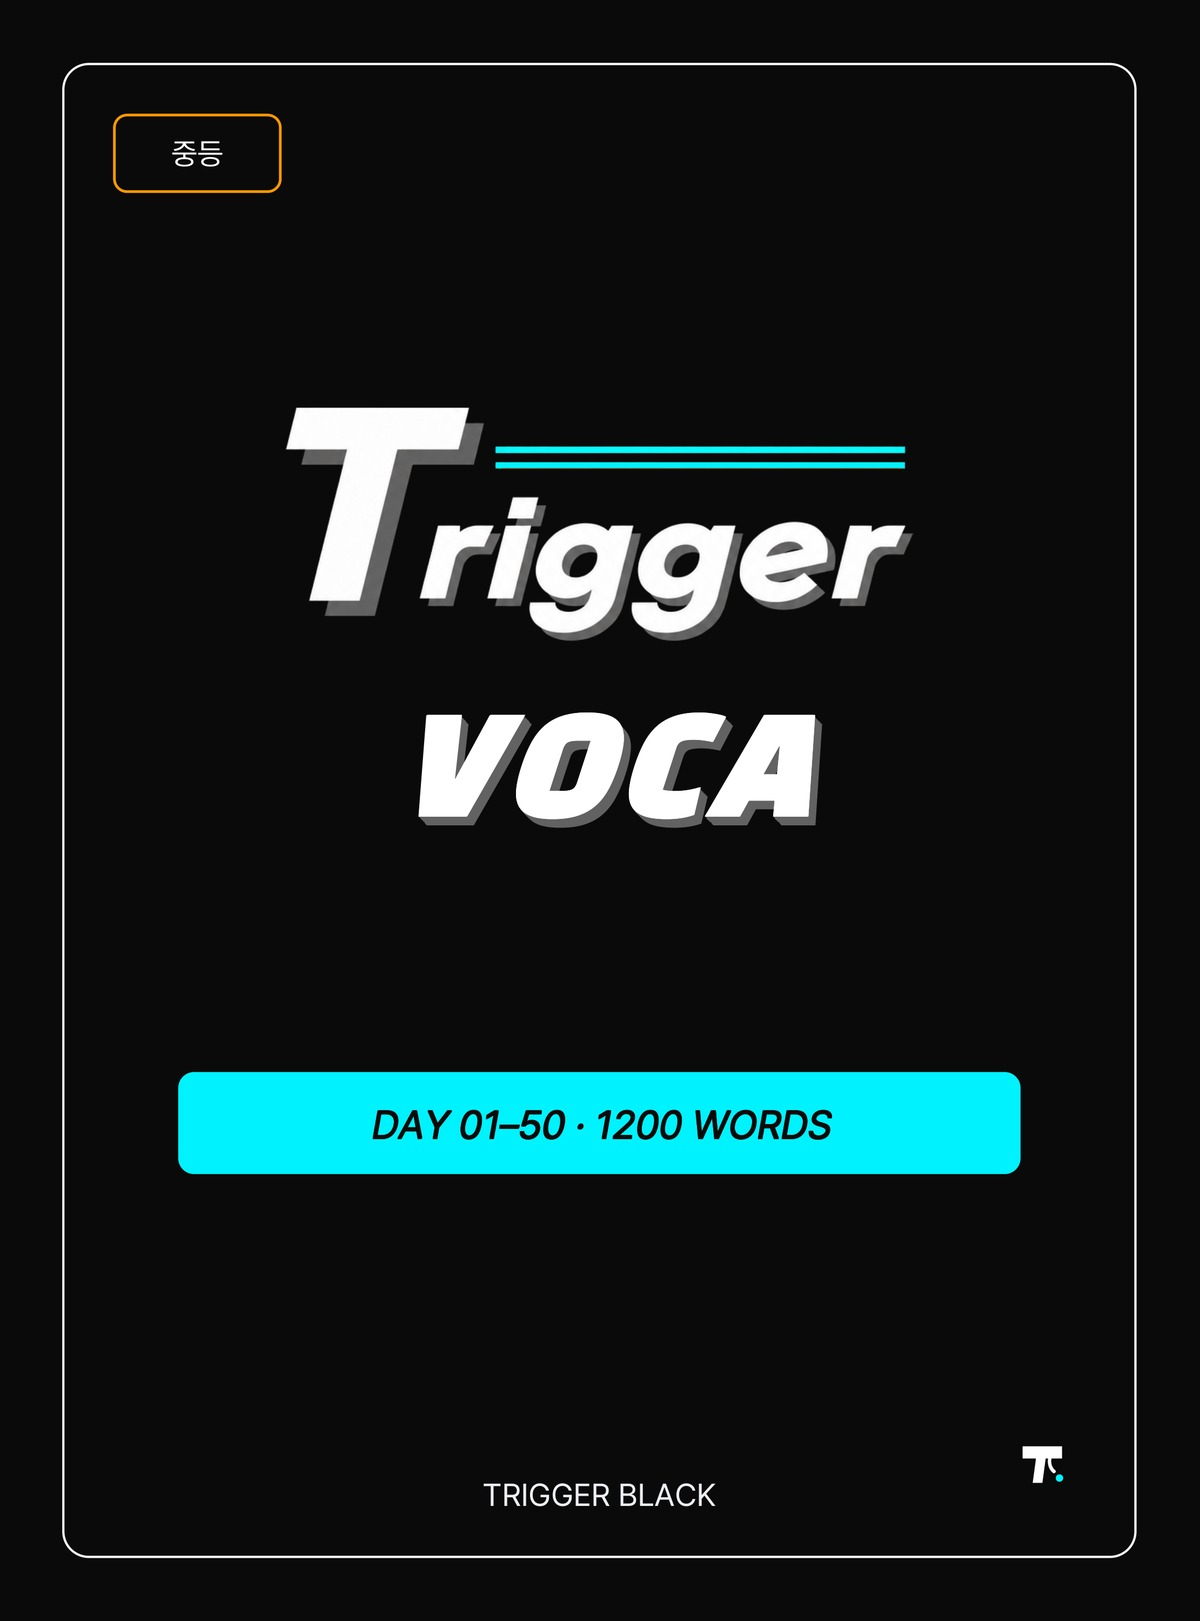
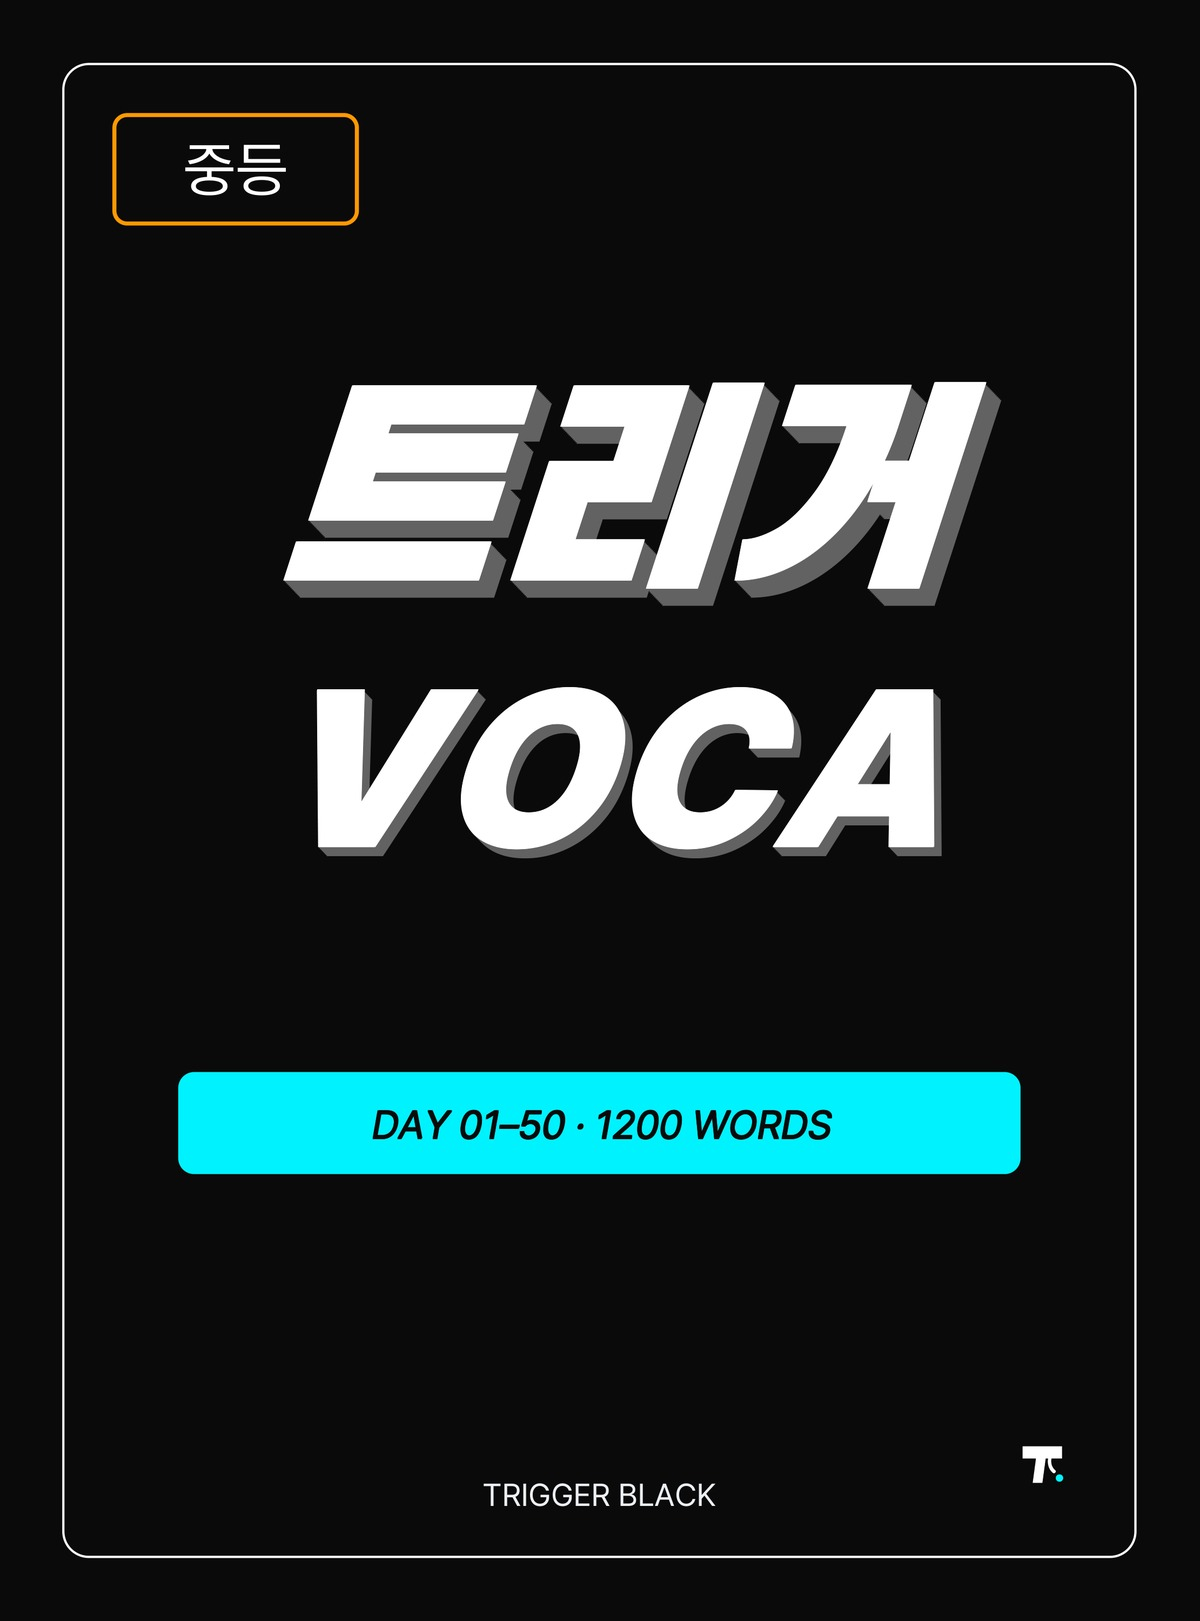
중등 표지를 고등과 같은 배지·제목 양식으로 맞춤

Changed region(s): [[0.2158, 0.2159, 0.8325, 0.5552], [0.0925, 0.0617, 0.3083, 0.1542]]

diff --git a/scripts/generate-voca-book-cover-bookk.py b/scripts/generate-voca-book-cover-bookk.py
@@ -259,12 +259,8 @@ def draw_front_panel(
     c.setLineWidth(1)
     c.roundRect(10 * mm, 10 * mm, w - 20 * mm, h - 20 * mm, 4 * mm, fill=0, stroke=1)
 
-    if level in ("고등", "HIGH", "high"):
-        badge_w, badge_h = 38 * mm, 17 * mm
-        badge_font, badge_dy, badge_stroke = 27, 9.6, 1.8
-    else:
-        badge_w, badge_h = 26 * mm, 12 * mm
-        badge_font, badge_dy, badge_stroke = 13.5, 4.8, 1.2
+    badge_w, badge_h = 38 * mm, 17 * mm
+    badge_font, badge_dy, badge_stroke = 27, 9.6, 1.8
     badge_x, badge_y = 18 * mm, h - 18 * mm - badge_h
     c.setStrokeColor(level_accent(level))
     c.setLineWidth(badge_stroke)
